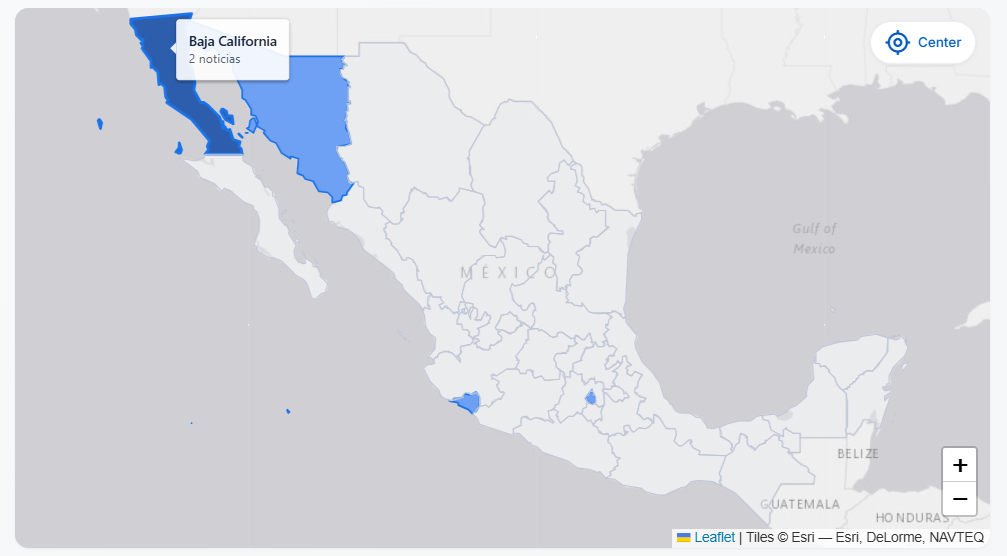
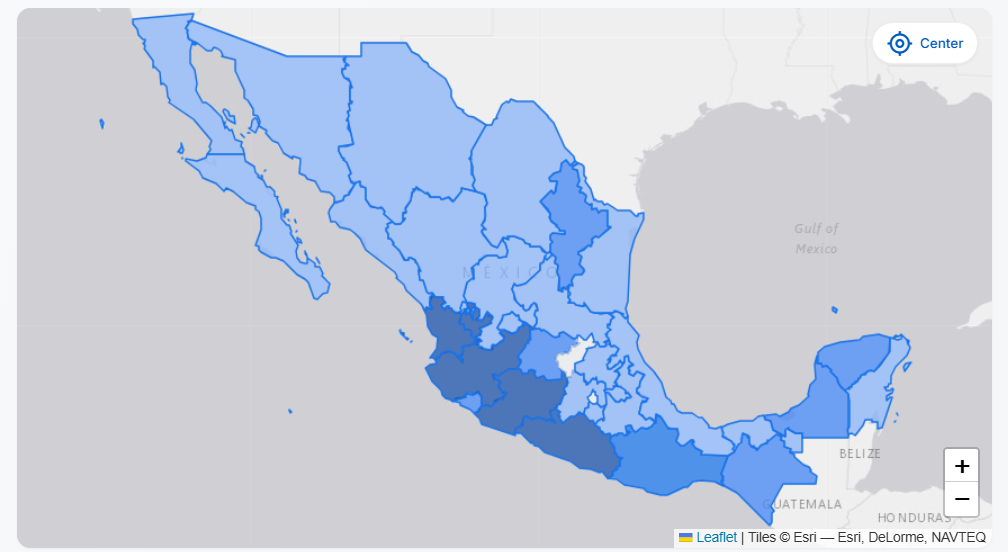
fix(llm_batch): retry individually articles skipped by LLM in batch instead of silently dropping to DLQ

Changed region(s): [[0.0, 0.0, 0.9851, 1.0], [0.862, 0.0616, 0.9543, 0.0924], [0.0924, 0.2156, 0.1231, 0.2464]]

diff --git a/utils/llm_batch.py b/utils/llm_batch.py
@@ -191,10 +191,45 @@ async def process_articles_batch(pool, articles_batch: list, country: str = "mx"
                 logger.error(f'DB error for article {article_id}: {e}')
                 await _send_to_dlq(conn, article_id, execution_id, json.dumps(res_dict), str(e))
 
+        # Retry individually any article the LLM silently skipped in the batch
         responded_ids = {r.get('article_id') for r in results}
-        for art_id, exec_id in execution_id_map.items():
-            if art_id not in responded_ids:
-                await _send_to_dlq(conn, art_id, exec_id, raw_json_str, 'LLM missed this article_id in batch response')
+        missed_ids = [art_id for art_id in execution_id_map if art_id not in responded_ids]
+        if missed_ids:
+            logger.warning(f"[process_articles_batch] LLM missed {len(missed_ids)} articles — retrying individually.")
+        for art_id in missed_ids:
+            exec_id = execution_id_map[art_id]
+            single_map = {art_id: articles_data_map[art_id]}
+            try:
+                retry_raw = await extract_metrics_batch(single_map, country)
+                retry_parsed = json.loads(retry_raw)
+                retry_results = retry_parsed.get('results', [])
+                found = next((r for r in retry_results if r.get('article_id') == art_id), None)
+                if found:
+                    validated_metrics = NewsMetrics(**found)
+                    await conn.execute('''
+                        UPDATE fact_news_metrics
+                        SET sentiment_score = $3, word_count = $4, entity_count = $5
+                        WHERE article_id = $1 AND execution_id = $2
+                    ''', art_id, exec_id, validated_metrics.sentiment_score,
+                        len((single_map.get(art_id, {}).get('text') or '').split()),
+                        len(validated_metrics.entities_list))
+                    await conn.execute('''
+                        UPDATE articles
+                        SET geodata = $1::jsonb
+                        WHERE article_id = $2 AND execution_id = $3
+                    ''', json.dumps(validated_metrics.locations_list), art_id, exec_id)
+                    for ent in validated_metrics.entities_list:
+                        await conn.execute('''
+                            INSERT INTO dim_entities (article_id, execution_id, entity_text, entity_type)
+                            VALUES ($1, $2, $3, $4)
+                        ''', art_id, exec_id, ent.entity_text, ent.entity_type)
+                    logger.info(f"[retry] Recovered article {art_id} → locations={validated_metrics.locations_list}")
+                else:
+                    # LLM responded but still missed the article in the retry — send to DLQ
+                    await _send_to_dlq(conn, art_id, exec_id, retry_raw, 'LLM missed article in single-article retry')
+            except Exception as e:
+                logger.error(f"[retry] Single-article retry failed for {art_id}: {e}")
+                await _send_to_dlq(conn, art_id, exec_id, '', str(e))
 
 async def _send_to_dlq(pool, article_id, execution_id, raw_response, error_reason):
     if hasattr(pool, 'execute'):
